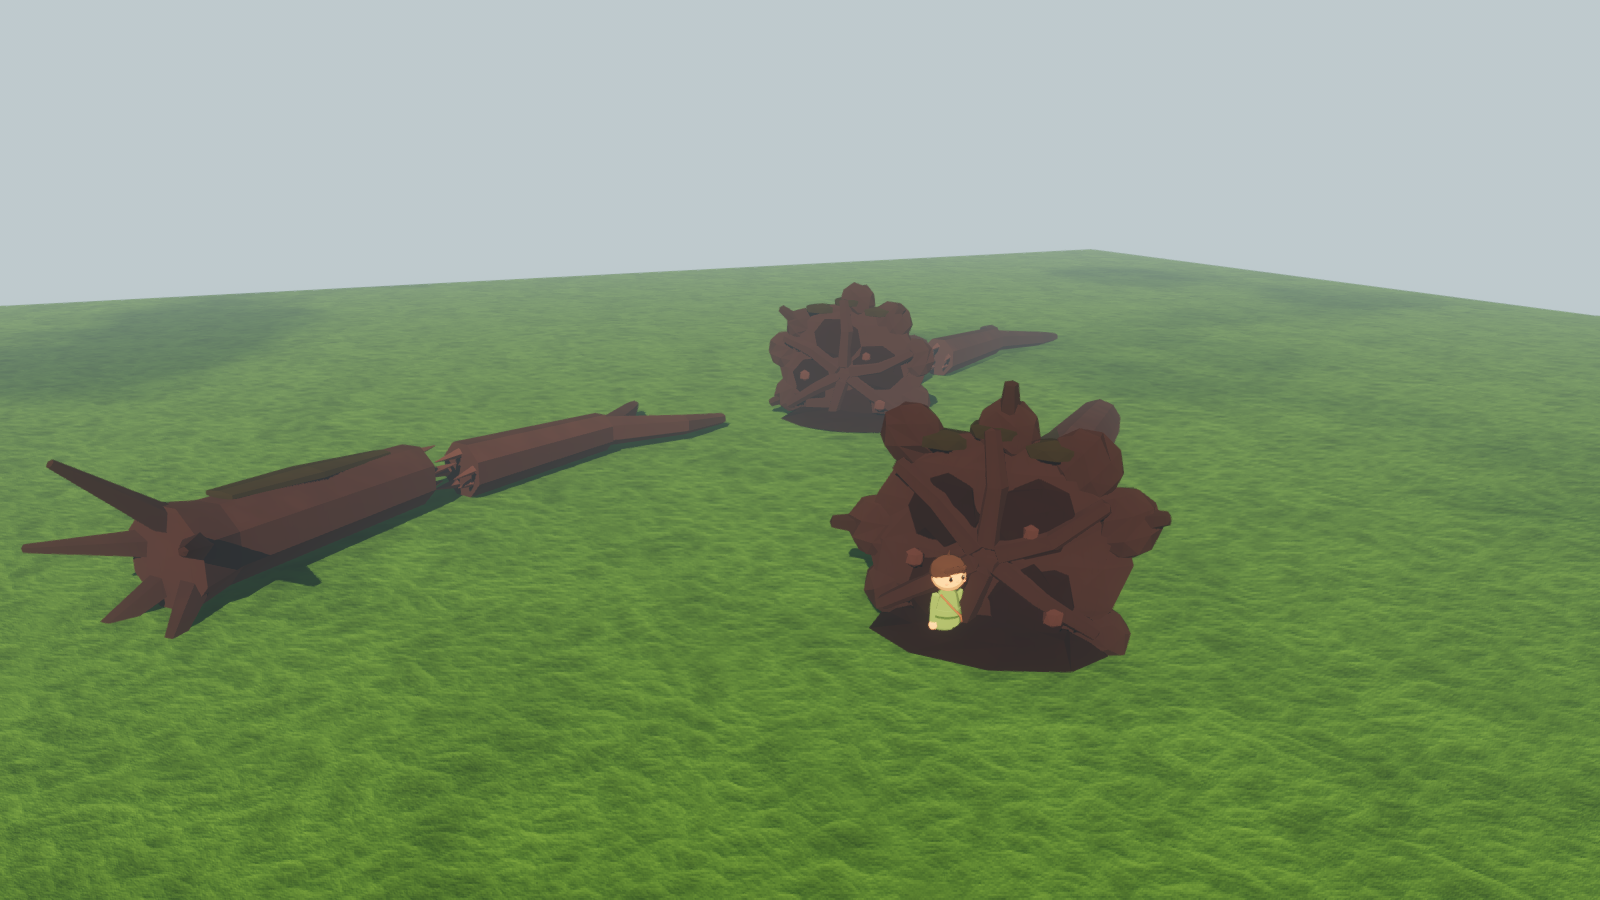
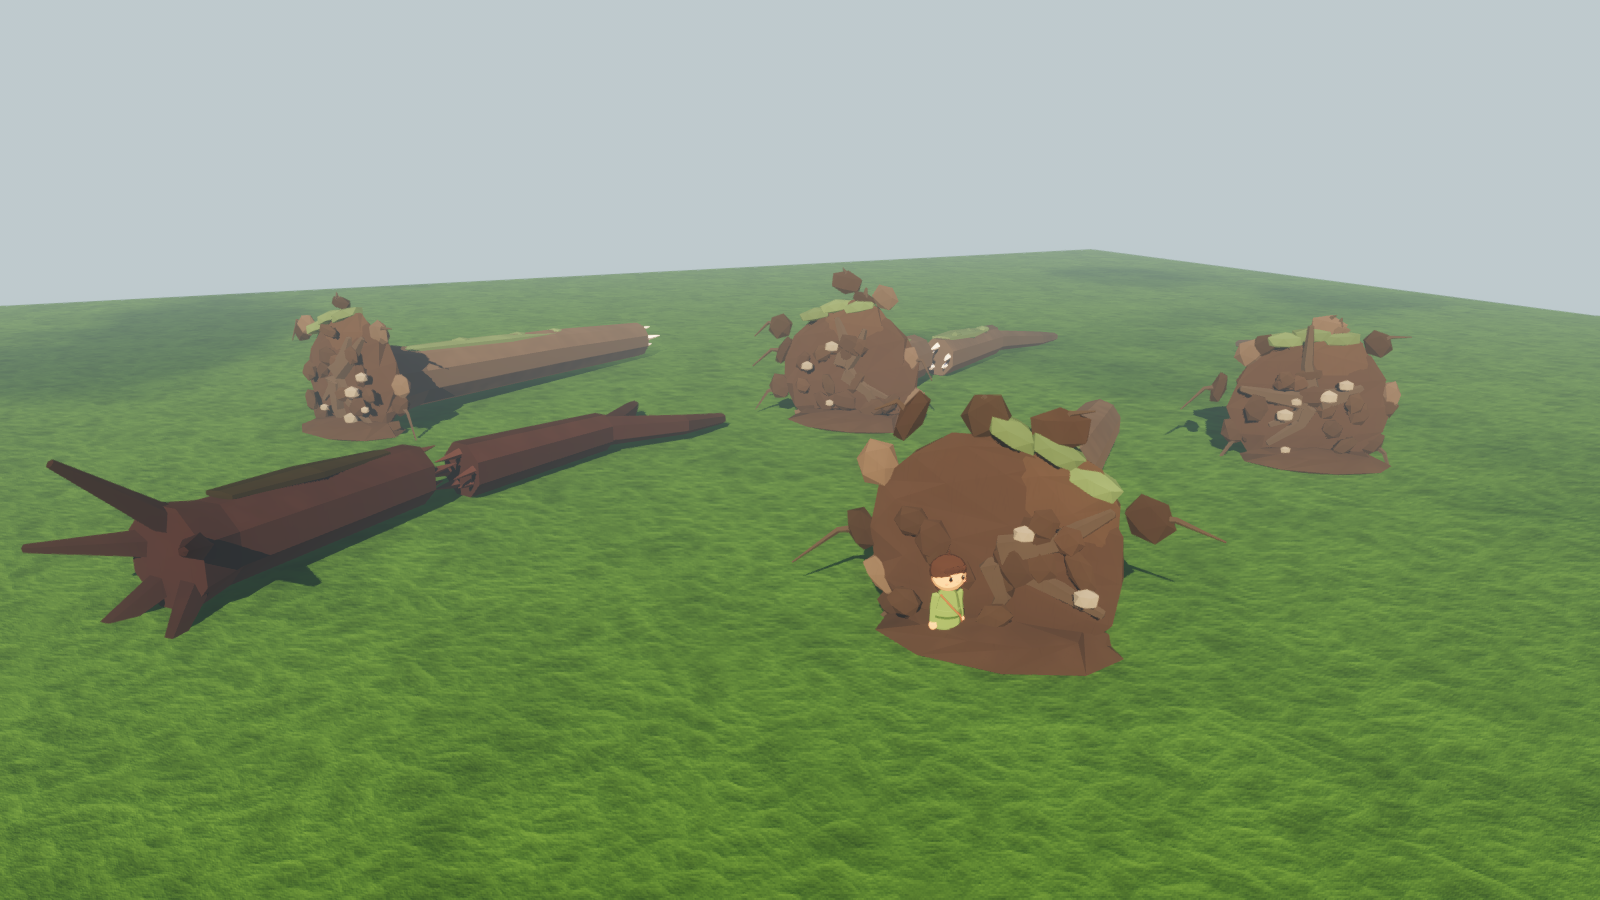
model-19: ragged lopsided root plate, earth and stones, dangling roots, weathered mossy bark, 6 varied giants (PM review)
Claude-Session: https://claude.ai/code/session_01JKX3FNjkrEkAqoTaFJiXAm

Changed region(s): [[0.4688, 0.28, 0.875, 0.7467], [0.1875, 0.3111, 0.4062, 0.4978]]

diff --git a/client/scripts/models/PropMeshes.cs b/client/scripts/models/PropMeshes.cs
@@ -65,7 +65,7 @@ public static class PropMeshes
     // A weathered boulder about 1 m across, settled into the ground with moss on
     // top. Four shapes, since boulders are everywhere: worn lumps, a tall split
     // stone, a low slab, and a round stone cracked in two.
-    public const int RockVariants = 4, FallenLogVariants = 2, FallenGiantLogVariants = 2;
+    public const int RockVariants = 4, FallenLogVariants = 2, FallenGiantLogVariants = 6;
 
     public static Mesh Rock(int variant) => Variant("rock", variant, RockVariants, BuildRock);
 
@@ -158,106 +158,144 @@ public static class PropMeshes
     }
 
     // A fallen giant (model-19, for Environment's env-33 landmark, drawn 3 to 4 times
-    // bigger): FallenLog's trunk, but torn up whole, so the butt end carries a root
-    // plate, a thick splayed disc of roots with soil still clinging, rather than thin
-    // root tubes, which read as spikes at that scale. Straight with a splintered crown
-    // end (0), or broken in two with a forked crown lying apart (1). About 3 m long
+    // bigger): FallenLog's trunk, but torn up whole and long fallen. The butt end carries
+    // a root plate, a ragged, lopsided disc of earth and roots (thin root tubes read as
+    // spikes at that scale), and the bark is weathered grey-brown with moss along the top.
+    // Even variants are straight with a splintered crown end, odd ones broken in two with
+    // a forked crown lying apart; every variant has its own plate (D-166). About 3 m long
     // at scale 1, like FallenLog, so the same placement fits.
     public static Mesh FallenGiantLog(int variant) => Variant("fallengiantlog", variant, FallenGiantLogVariants, BuildFallenGiantLog);
+
+    // Unlike FallenLog the giant carries its own colours (weathered grey-brown wood, the
+    // ground's own earth, moss, grey stones), so it is drawn on Painted.Bark with a white
+    // instance tint, GiantTint, a little darker or lighter per instance if wanted.
+    public static readonly Color GiantTint = Colors.White;
+    static readonly Color Weathered = new(0.42f, 0.36f, 0.31f);
+    static readonly Color Soil = Look.Earth.Darkened(0.1f);
+    static readonly Color GiantMoss = Look.Moss.Lightened(0.2f);
+    static readonly Color Pebble = new(0.55f, 0.53f, 0.5f);
 
     static ArrayMesh BuildFallenGiantLog(int v)
     {
         var k = Kit();
-        var moss = new Color(0.62f, 0.8f, 0.45f);
         var butt = new Vector3(-1.5f, 0.3f, 0);
         RootPlate(k, butt, v);
-        if (v == 0)
+        if (v % 2 == 0)
         {
-            k.Paint(Colors.White, 0.75f).Loft(butt, new Vector3(1.5f, 0.17f, 0.06f), new MeshKit.Ring[]
+            k.Paint(Weathered, 0.8f).Loft(butt, new Vector3(1.5f, 0.17f, 0.06f), new MeshKit.Ring[]
             {
                 new(0f, 0.3f, 0.29f), new(0.12f, 0.23f, 0.22f), new(0.6f, 0.2f, 0.19f, 0f, 0.01f), new(1f, 0.16f, 0.15f),
             }, 10, 0.05f);
             Splinters(k, new Vector3(1.5f, 0.17f, 0.06f), Vector3.Right, 0.09f);
-            k.Paint(moss).Loft(new Vector3(-1.1f, 0.5f, 0.0f), new Vector3(0.7f, 0.36f, 0.03f), new MeshKit.Ring[]
-            {
-                new(0f, 0.02f, 0.1f), new(0.5f, 0.035f, 0.14f), new(1f, 0.015f, 0.06f),
-            }, 6, 0.3f);
+            GiantMossTop(k, new Vector3(-1.2f, 0.5f, 0.0f), new Vector3(0.8f, 0.36f, 0.03f), v);
         }
         else
         {
-            k.Paint(Colors.White, 0.75f).Loft(butt, new Vector3(-0.1f, 0.21f, 0.05f), new MeshKit.Ring[]
+            k.Paint(Weathered, 0.8f).Loft(butt, new Vector3(-0.1f, 0.21f, 0.05f), new MeshKit.Ring[]
             {
                 new(0f, 0.3f, 0.29f), new(0.15f, 0.22f, 0.21f), new(1f, 0.19f, 0.18f),
             }, 10, 0.05f);
             Splinters(k, new Vector3(-0.1f, 0.21f, 0.05f), Vector3.Right, 0.11f);
             var crown = new Vector3(0.15f, 0.17f, 0.2f);
-            k.Paint(Colors.White, 0.75f).Loft(crown, crown + new Vector3(1.1f, -0.02f, 0.25f), new MeshKit.Ring[]
+            k.Paint(Weathered, 0.8f).Loft(crown, crown + new Vector3(1.1f, -0.02f, 0.25f), new MeshKit.Ring[]
             {
                 new(0f, 0.17f, 0.16f), new(1f, 0.13f, 0.12f),
             }, 8, 0.05f);
             Splinters(k, crown, Vector3.Left, 0.1f);
             var fork = crown + new Vector3(1.1f, -0.02f, 0.25f);
-            k.Paint(Colors.White, 0.72f).Tube(new[] { fork, fork + new Vector3(0.5f, -0.04f, 0.35f), fork + new Vector3(0.9f, -0.08f, 0.45f) }, 0.1f, 6, 0.04f);
-            k.Paint(Colors.White, 0.72f).Tube(new[] { fork, fork + new Vector3(0.55f, 0.0f, -0.12f), fork + new Vector3(0.95f, -0.06f, -0.3f) }, 0.09f, 6, 0.035f);
-            k.Paint(moss).Loft(new Vector3(-1.15f, 0.5f, 0.0f), new Vector3(-0.3f, 0.39f, 0.04f), new MeshKit.Ring[]
-            {
-                new(0f, 0.02f, 0.11f), new(0.5f, 0.03f, 0.14f), new(1f, 0.015f, 0.06f),
-            }, 6, 0.3f);
+            k.Paint(Weathered, 0.76f).Tube(new[] { fork, fork + new Vector3(0.5f, -0.04f, 0.35f), fork + new Vector3(0.9f, -0.08f, 0.45f) }, 0.1f, 6, 0.04f);
+            k.Paint(Weathered, 0.76f).Tube(new[] { fork, fork + new Vector3(0.55f, 0.0f, -0.12f), fork + new Vector3(0.95f, -0.06f, -0.3f) }, 0.09f, 6, 0.035f);
+            GiantMossTop(k, new Vector3(-1.15f, 0.5f, 0.0f), new Vector3(-0.3f, 0.39f, 0.04f), v);
+            GiantMossTop(k, crown + new Vector3(0.1f, 0.15f, 0), crown + new Vector3(0.9f, 0.12f, 0.2f), v + 7);
         }
         return Done(k);
     }
 
-    // A torn-up root plate standing on edge at a trunk's butt, facing back along -X:
-    // a thick, lumpy disc wider than the trunk, its rim broken into a few root lobes
-    // with short stubs, earth clinging to the face in darker clods and a few pebbles,
-    // and the base sunk a little into the ground.
+    // A long soft band of moss along the top of a lying trunk, with a few cushions.
+    static void GiantMossTop(MeshKit k, Vector3 from, Vector3 to, int seed)
+    {
+        k.Paint(GiantMoss).Loft(from, to, new MeshKit.Ring[]
+        {
+            new(0f, 0.02f, 0.1f), new(0.5f, 0.035f, 0.15f), new(1f, 0.015f, 0.06f),
+        }, 6, 0.3f);
+        for (int i = 0; i < 3; i++)
+        {
+            var at = from.Lerp(to, 0.2f + 0.3f * i + H(seed, 80 + i) * 0.1f) + new Vector3(0, 0.01f, (H(seed, 83 + i) - 0.5f) * 0.12f);
+            k.Paint(GiantMoss, 0.9f + H(i, 86) * 0.15f).Ellipsoid(at, new Vector3(0.09f, 0.035f, 0.07f), 7, 3, null, 0.5f);
+        }
+    }
+
+    // A torn-up root plate standing on edge at a trunk's butt, facing back along -X: a
+    // lopsided disc of packed earth, taller on one side, its rim broken and ragged; a few
+    // thick roots wandering out across it, uneven and off-centre, with earth clods and
+    // stones caught between them; thin root ends dangling off the rim; moss along its top;
+    // and heaped earth where its foot leans in the ground. Its roll, size and roots come
+    // from the variant, so no two fallen giants match.
     static void RootPlate(MeshKit k, Vector3 butt, int v)
     {
-        var earth = new Color(0.52f, 0.46f, 0.42f);
-        var moss = new Color(0.62f, 0.8f, 0.45f);
-        var center = butt + new Vector3(-0.12f, 0.08f, 0);
-        var flat = new Basis(Vector3.Back, 0f);
-        // The plate itself: a disc about 1.4 trunk widths across, thicker in the middle.
-        k.Paint(Colors.White, 0.7f).Ellipsoid(center, new Vector3(0.14f, 0.5f, 0.56f), 10, 8, flat);
-        // Root lobes round the rim, each a fat flattened lump, so the edge is uneven.
-        const int lobes = 9;
+        float roll = (H(v, 60) - 0.5f) * 1.6f;     // which way the tall side leans
+        float size = 0.85f + H(v, 61) * 0.3f;
+        var center = butt + new Vector3(-0.12f, 0.06f, 0);
+        var tall = new Vector3(0, Mathf.Cos(roll), Mathf.Sin(roll));
+        var across = new Vector3(0, -Mathf.Sin(roll), Mathf.Cos(roll));
+        Vector3 Rim(float a, float r) => center + (tall * Mathf.Cos(a) + across * Mathf.Sin(a)) * r;
+
+        // The plate: two overlapping soil discs, one pushed up to the tall side.
+        k.Paint(Soil, 0.95f).Ellipsoid(center, new Vector3(0.14f, 0.48f, 0.54f) * size, 10, 8, new Basis(Vector3.Right, roll));
+        k.Paint(Soil, 1.05f).Ellipsoid(center + tall * 0.2f * size + across * 0.08f, new Vector3(0.12f, 0.34f, 0.32f) * size, 9, 6, new Basis(Vector3.Right, roll + 0.3f));
+
+        // Lumps of earth and root round the rim, some missing where it broke away.
+        int lobes = 13 + v % 4;
         for (int i = 0; i < lobes; i++)
         {
-            float a = i * Mathf.Tau / lobes + H(i, 60 + v) * 0.4f;
-            var dir = new Vector3(0, Mathf.Sin(a), Mathf.Cos(a));
-            float r = 0.46f + H(i, 61 + v) * 0.12f;
-            var at = center + dir * r + new Vector3(0.02f, 0, 0);
-            k.Paint(Colors.White, 0.66f + H(i, 62) * 0.08f).Ellipsoid(at, new Vector3(0.11f, 0.13f + H(i, 63) * 0.05f, 0.15f), 8, 5, MeshKit.Aim(dir));
-            // A short, thick broken root stub out of every other lobe.
-            if (i % 2 == v % 2)
-                k.Paint(Colors.White, 0.62f).Tube(new[] { at, at + dir * (0.14f + H(i, 64) * 0.1f) + new Vector3(-0.05f, 0, 0) }, 0.06f, 5, 0.03f);
+            if (H(v * 13 + i, 62) < 0.22f) continue;
+            float a = i * Mathf.Tau / lobes + (H(v * 13 + i, 63) - 0.5f) * 0.5f;
+            float r = (0.44f + H(v * 13 + i, 64) * 0.16f + (Mathf.Cos(a) > 0 ? 0.08f * Mathf.Cos(a) : 0f)) * size;
+            var at = Rim(a, r);
+            var dir = (at - center).Normalized();
+            bool earthy = H(v * 13 + i, 65) < 0.55f;
+            // Flat, in the plane of the plate, so the rim reads ragged rather than beaded.
+            k.Paint(earthy ? Soil : Weathered, 0.8f + H(i, 66) * 0.15f).Ellipsoid(at, new Vector3(0.06f, 0.05f + H(i, 67) * 0.05f, 0.08f + H(i, 68) * 0.06f) * size, 6, 3, new Basis(Vector3.Right, a));
+            // Thin root ends dangling off the rim, sagging under their own weight.
+            if (H(v * 13 + i, 69) < 0.6f)
+            {
+                var tip = at + dir * (0.18f + H(i, 70) * 0.14f) * size + new Vector3(-0.04f, -0.12f - H(i, 71) * 0.1f, 0);
+                k.Paint(Weathered, 0.7f).Tube(new[] { at, at + dir * 0.1f * size + new Vector3(-0.02f, -0.02f, 0), tip }, 0.022f, 4, 0.004f);
+            }
         }
-        // Thick roots radiating across the face from the trunk's heart to the rim, the
-        // way a torn-up plate shows them, with earth packed in between.
-        for (int i = 0; i < 6; i++)
+
+        // A few thick roots wandering across the face from off-centre, uneven in length.
+        int roots = 3 + v % 3;
+        var heart = center + new Vector3(-0.12f, 0, 0) + tall * 0.05f;
+        for (int i = 0; i < roots; i++)
         {
-            float a = i * Mathf.Tau / 6f + 0.3f + H(i, 73 + v) * 0.3f;
-            var dir = new Vector3(0, Mathf.Sin(a), Mathf.Cos(a));
-            var from = center + new Vector3(-0.12f, 0, 0) + dir * 0.06f;
-            var bend = center + new Vector3(-0.15f, 0, 0) + dir * 0.28f + new Vector3(0, (H(i, 74) - 0.5f) * 0.08f, (H(i, 75) - 0.5f) * 0.08f);
-            k.Paint(Colors.White, 0.68f).Tube(new[] { from, bend, center + new Vector3(-0.1f, 0, 0) + dir * 0.52f }, 0.06f, 5, 0.035f);
+            float a = H(v * 7 + i, 72) * Mathf.Tau;
+            float len = (0.28f + H(v * 7 + i, 73) * 0.25f) * size;
+            var dir = tall * Mathf.Cos(a) + across * Mathf.Sin(a);
+            var bend = heart + dir * len * 0.5f + across * (H(i, 74) - 0.5f) * 0.12f;
+            k.Paint(Weathered, 0.72f).Tube(new[] { heart + dir * 0.04f, bend, heart + dir * len + new Vector3(0.02f, 0, 0) }, 0.055f + H(i, 75) * 0.025f, 5, 0.02f);
         }
-        for (int i = 0; i < 4; i++)
+
+        // Dark earth packed between the roots, and stones caught in it.
+        for (int i = 0; i < 14; i++)
         {
-            float a = i * Mathf.Tau / 4f + 0.8f + v;
-            var at = center + new Vector3(-0.12f, Mathf.Sin(a) * 0.25f, Mathf.Cos(a) * 0.25f);
-            k.Paint(earth, 0.85f + H(i, 67) * 0.12f).Ellipsoid(at, new Vector3(0.04f, 0.14f + H(i, 68) * 0.05f, 0.16f + H(i, 69) * 0.05f), 7, 4, new Basis(Vector3.Right, a));
+            float a = H(v * 11 + i, 76) * Mathf.Tau;
+            float r = (0.08f + H(v * 11 + i, 77) * 0.32f) * size;
+            var at = Rim(a, r) + new Vector3(-0.13f - H(i, 78) * 0.03f, 0, 0);
+            k.Paint(Soil, 0.85f + H(i, 79) * 0.15f).Ellipsoid(at, new Vector3(0.04f, 0.04f + H(i, 80) * 0.04f, 0.06f + H(i, 81) * 0.05f) * size, 6, 3, new Basis(Vector3.Right, a));
         }
+        for (int i = 0; i < 3 + v % 3; i++)
+        {
+            float a = H(v * 5 + i, 82) * Mathf.Tau;
+            var at = Rim(a, (0.12f + H(v * 5 + i, 83) * 0.3f) * size) + new Vector3(-0.17f, 0, 0);
+            k.Paint(Pebble, 0.85f + H(i, 84) * 0.25f).Ellipsoid(at, new Vector3(0.035f, 0.03f, 0.04f) * (0.8f + H(i, 85) * 0.8f), 6, 3);
+        }
+
+        // Moss and grass still on the plate's top edge, where the forest floor was.
         for (int i = 0; i < 3; i++)
-        {
-            var at = center + new Vector3(-0.16f, -0.2f + i * 0.17f, (H(i, 70) - 0.5f) * 0.6f);
-            k.Paint(new Color(0.9f, 0.9f, 0.92f)).Ellipsoid(at, Vector3.One * (0.03f + H(i, 71) * 0.02f), 6, 3);
-        }
-        // Moss and grass still growing along the plate's top edge, where the forest floor was.
-        for (int i = 0; i < 3; i++)
-            k.Paint(moss, 0.9f + H(i, 72) * 0.1f).Ellipsoid(center + new Vector3(0.0f, 0.5f - Mathf.Abs(i - 1) * 0.06f, (i - 1) * 0.22f), new Vector3(0.12f, 0.04f, 0.14f), 7, 3);
-        // The heaped earth where the plate's bottom edge meets the ground.
-        k.Paint(earth, 0.85f).Ellipsoid(new Vector3(center.X - 0.1f, 0.02f, 0), new Vector3(0.3f, 0.1f, 0.5f), 9, 4, null, 0.5f);
+            k.Paint(GiantMoss, 0.9f + H(v + i, 86) * 0.15f).Ellipsoid(Rim((i - 1) * 0.35f, 0.5f * size), new Vector3(0.12f, 0.05f, 0.14f), 7, 3, new Basis(Vector3.Right, roll));
+        // The heaped earth where the plate's foot leans in the ground.
+        k.Paint(Soil, 0.9f).Ellipsoid(new Vector3(center.X - 0.1f, 0.02f, across.Z * 0.05f), new Vector3(0.3f, 0.1f, 0.5f) * size, 9, 4, null, 0.5f);
     }
 
     // Pale splinters sticking out of a broken end.

diff --git a/client/scripts/models/Showcase.ModelingProps.cs b/client/scripts/models/Showcase.ModelingProps.cs
@@ -6,7 +6,7 @@ namespace LifeGame;
 public partial class Showcase
 {
     // Environment's fallen giant (model-19): FallenLog's broken variant at landmark scale
-    // in front, then FallenGiantLog's two variants with their root plates, a person for scale.
+    // in front, then four of FallenGiantLog's variants with their root plates, a person for scale.
     [ShowcaseView("giantlog")]
     void GiantLogs()
     {
@@ -15,12 +15,14 @@ public partial class Showcase
             (PropMeshes.FallenLog(1), new Vector3(-7f, 0, -4f), 0.75f),
             (PropMeshes.FallenGiantLog(0), new Vector3(4f, 0, 2f), 0.75f),
             (PropMeshes.FallenGiantLog(1), new Vector3(8f, 0, -10f), 0.75f),
+            (PropMeshes.FallenGiantLog(2), new Vector3(-3f, 0, -14f), 0.6f),
+            (PropMeshes.FallenGiantLog(5), new Vector3(15f, 0, -3f), 0.9f),
         };
         foreach (var (mesh, at, yaw) in logs)
         {
             var multi = new MultiMesh { TransformFormat = MultiMesh.TransformFormatEnum.Transform3D, UseColors = true, UseCustomData = true, Mesh = mesh, InstanceCount = 1 };
             multi.SetInstanceTransform(0, new Transform3D(new Basis(Vector3.Up, yaw).Scaled(Vector3.One * 3.5f), at));
-            multi.SetInstanceColor(0, Look.Bark.Darkened(0.1f));
+            multi.SetInstanceColor(0, mesh == logs[0].Mesh ? Look.Bark.Darkened(0.1f) : PropMeshes.GiantTint);
             AddChild(new MultiMeshInstance3D { Multimesh = multi, MaterialOverride = Painted.Bark });
         }
         var person = PlayerModel.Build();

diff --git a/tickets/model-19.md b/tickets/model-19.md
@@ -7,7 +7,7 @@ PR: (see below)
 
 ## Goal
 For Environment's fallen giant landmark (env-33, PR #718), which draws FallenLog 3 to 4 times bigger. There, FallenLog's five thin root tubes read as antlers or spikes.
-- New `PropMeshes.FallenGiantLog(int variant)` with `FallenGiantLogVariants = 2`, about 3 m long at scale 1 like FallenLog, on Painted.Bark.
+- New `PropMeshes.FallenGiantLog(int variant)` with `FallenGiantLogVariants = 6`, about 3 m long at scale 1 like FallenLog, on Painted.Bark with the white `PropMeshes.GiantTint` as its instance colour.
 - The butt end is a torn-up root plate: a thick lumpy disc with uneven root lobes and short stubs, thick roots radiating across its face, earth clods and pebbles between, moss along the top edge, and heaped earth at its foot.
 - Variant 0 is straight with a splintered crown end; variant 1 is broken in two with a forked crown, as FallenLog 1.
 - Showcase view `giantlog` (in `Showcase.ModelingProps.cs`): the old FallenLog 1 at 3.5x next to both giants, with a person for scale.
@@ -15,6 +15,12 @@ Render: `renders/model-19-giant-log.png`.
 
 ## Progress log
 - 2026-10-17: built and iterated over three renders; build has 0 errors.
+- 2026-10-17 11:40: PM review (it read as a symmetric wheel). Reworked:
+  - The plate is lopsided (taller on one side) with a ragged rim of small flat lumps, some missing.
+  - A few uneven roots wander across the face, with ground-coloured soil and stones packed between them and thin root ends dangling off the rim.
+  - Moss sits on top. The bark is weathered grey-brown, with moss bands and cushions along the trunk.
+  - FallenGiantLogVariants is now 6: even variants are straight, odd ones broken, and each has its own plate roll, size, lobes and roots (D-166).
+  - Vertex colours can't exceed the bark tint, so the giant now carries its own colours: it must be drawn with the white `PropMeshes.GiantTint`, not Look.Bark.
 
 ## Open questions / blockers
 - (none) Environment swaps the mesh in its builder and may want to preload it in ChunkWorker as FallenLog is.
